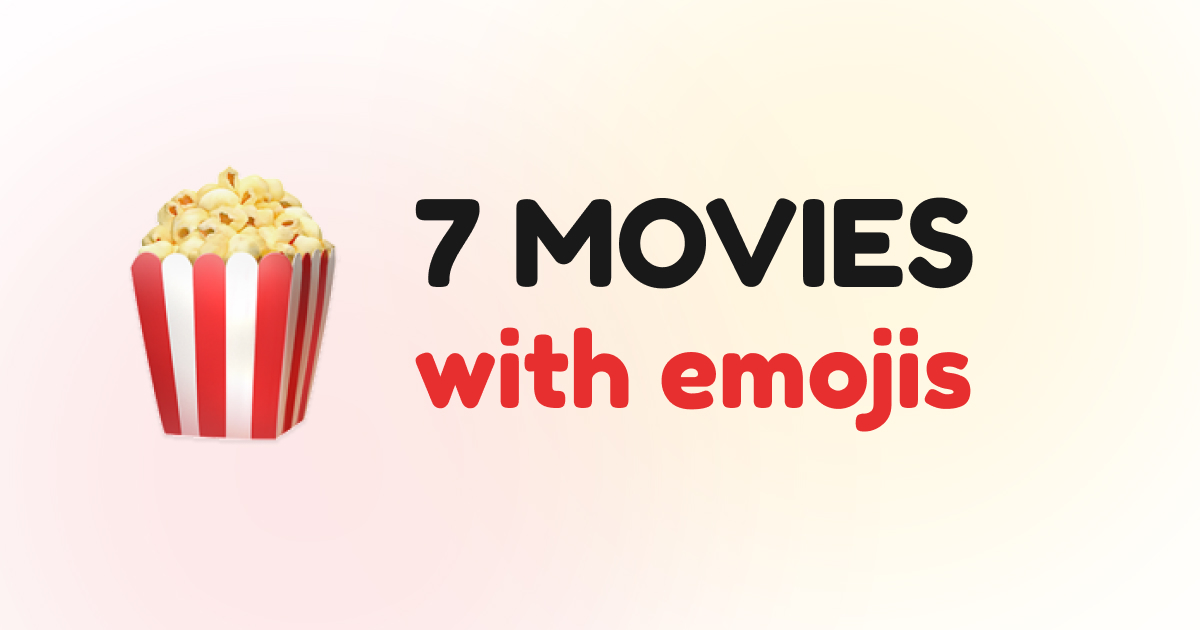
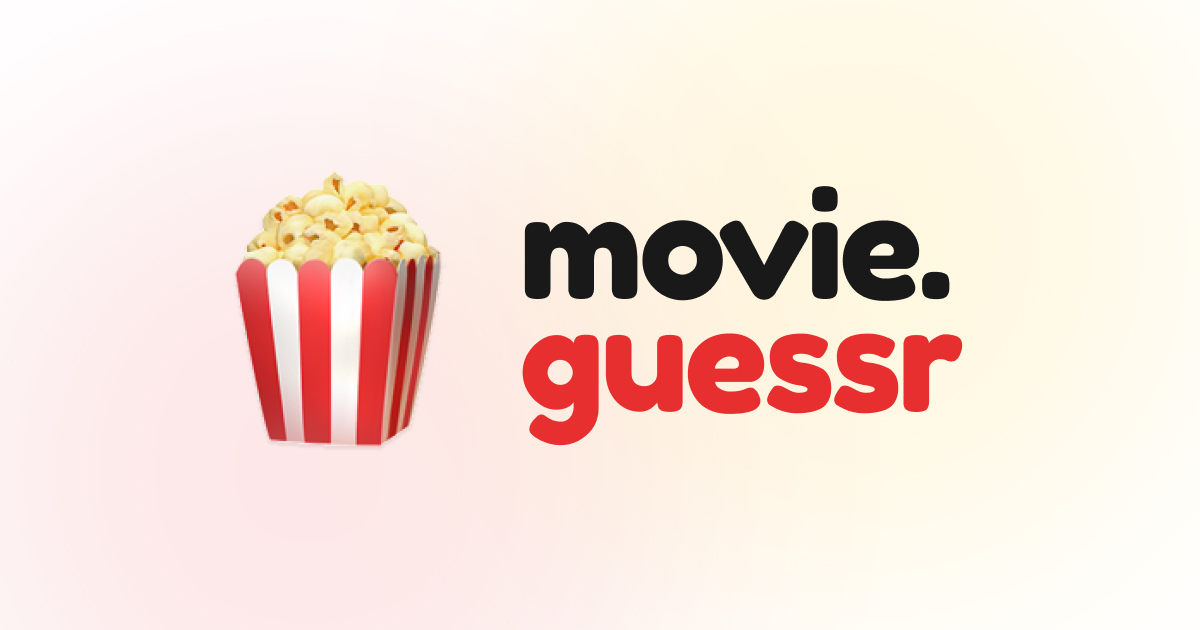
change name and updatr og image

Changed region(s): [[0.0925, 0.2714, 0.8325, 0.7238], [0.4317, 0.2714, 0.8325, 0.4825]]

diff --git a/src/contexts/LanguageContext.tsx b/src/contexts/LanguageContext.tsx
@@ -125,9 +125,9 @@ const translations = {
     'score.no.speed.bonus': 'No speed bonus (>30s)',
     
     // Footer
-    'footer.made.with': '7 movies is an after dinner project made with 🍿',
-    'footer.contact': 'If you have suggestions please',
-    'footer.contact.link': 'contact me',
+    'footer.made.with': 'movie.guessr is an after dinner project made with 🍿',
+    'footer.contact': 'If you have feedbacks please write to',
+    'footer.contact.link': 'feedback@guessr.app',
   },
   fr: {
     // Page d'accueil
@@ -235,9 +235,9 @@ const translations = {
     'score.no.speed.bonus': 'Pas de bonus vitesse (>30s)',
     
     // Pied de page
-    'footer.made.with': '7 movies est un projet after-dinner fait avec 🍿',
-    'footer.contact': 'Si vous avez des suggestions,',
-    'footer.contact.link': 'contactez-moi',
+    'footer.made.with': 'movie.guessr est un projet fait avec 🍿',
+    'footer.contact': 'Si vous avez des suggestions, écrivez à',
+    'footer.contact.link': 'feedback@guessr.app',
   }
 };
 

diff --git a/src/components/game/ShareButton.tsx b/src/components/game/ShareButton.tsx
@@ -39,8 +39,8 @@ export const ShareButton: React.FC<ShareButtonProps> = ({
   }
   
   const shareText = language === 'fr' 
-    ? `🍿 Je viens de jouer à 7 movies, j'ai trouvé ${score}/${totalMovies} films et j'ai fait ${totalScore} pts. Essaie de me battre :)`
-    : `🍿 I just played the 7 movies game - I found ${score}/${totalMovies} movies and scored ${totalScore} pts. Try to beat me :)`;
+    ? `🍿 Je viens de jouer à movie.guessr, j'ai trouvé ${score}/${totalMovies} films et j'ai fait ${totalScore} pts. Essaie de me battre :)`
+    : `🍿 I just played the movie.guessr game - I found ${score}/${totalMovies} movies and scored ${totalScore} pts. Try to beat me :)`;
 
   const handleShare = async () => {
     // Try to use native Web Share API first

diff --git a/src/components/game/NavigationMenu.tsx b/src/components/game/NavigationMenu.tsx
@@ -70,7 +70,7 @@ export const NavigationMenu: React.FC<NavigationMenuProps> = ({ isOpen, onClose 
               {t('footer.made.with')}
             </div>
             <div className="text-[14px] text-gray-600">
-              {t('footer.contact')} <a href="https://www.linkedin.com/in/nicolasgouard/" target="_blank" className="underline">{t('footer.contact.link')}</a>
+              {t('footer.contact')} <a href="mailto:feedback@guessr.app" target="_blank" className="underline">{t('footer.contact.link')}</a>
             </div>
           </div>
         </div>

diff --git a/index.html b/index.html
@@ -3,7 +3,7 @@
   <head>
     <meta charset="UTF-8" />
     <meta name="viewport" content="width=device-width, initial-scale=1.0" />
-    <title>7 movies with emojis - Find movie titles based on emojis as fast as you can!</title>
+    <title>movie.guessr - Find movie titles based on emojis as fast as you can!</title>
     <meta name="description" content="Play with your friends" />
     <meta name="author" content="Nicolas Gouard" />
     <meta property="og:image" content="/og-image.jpg" />
